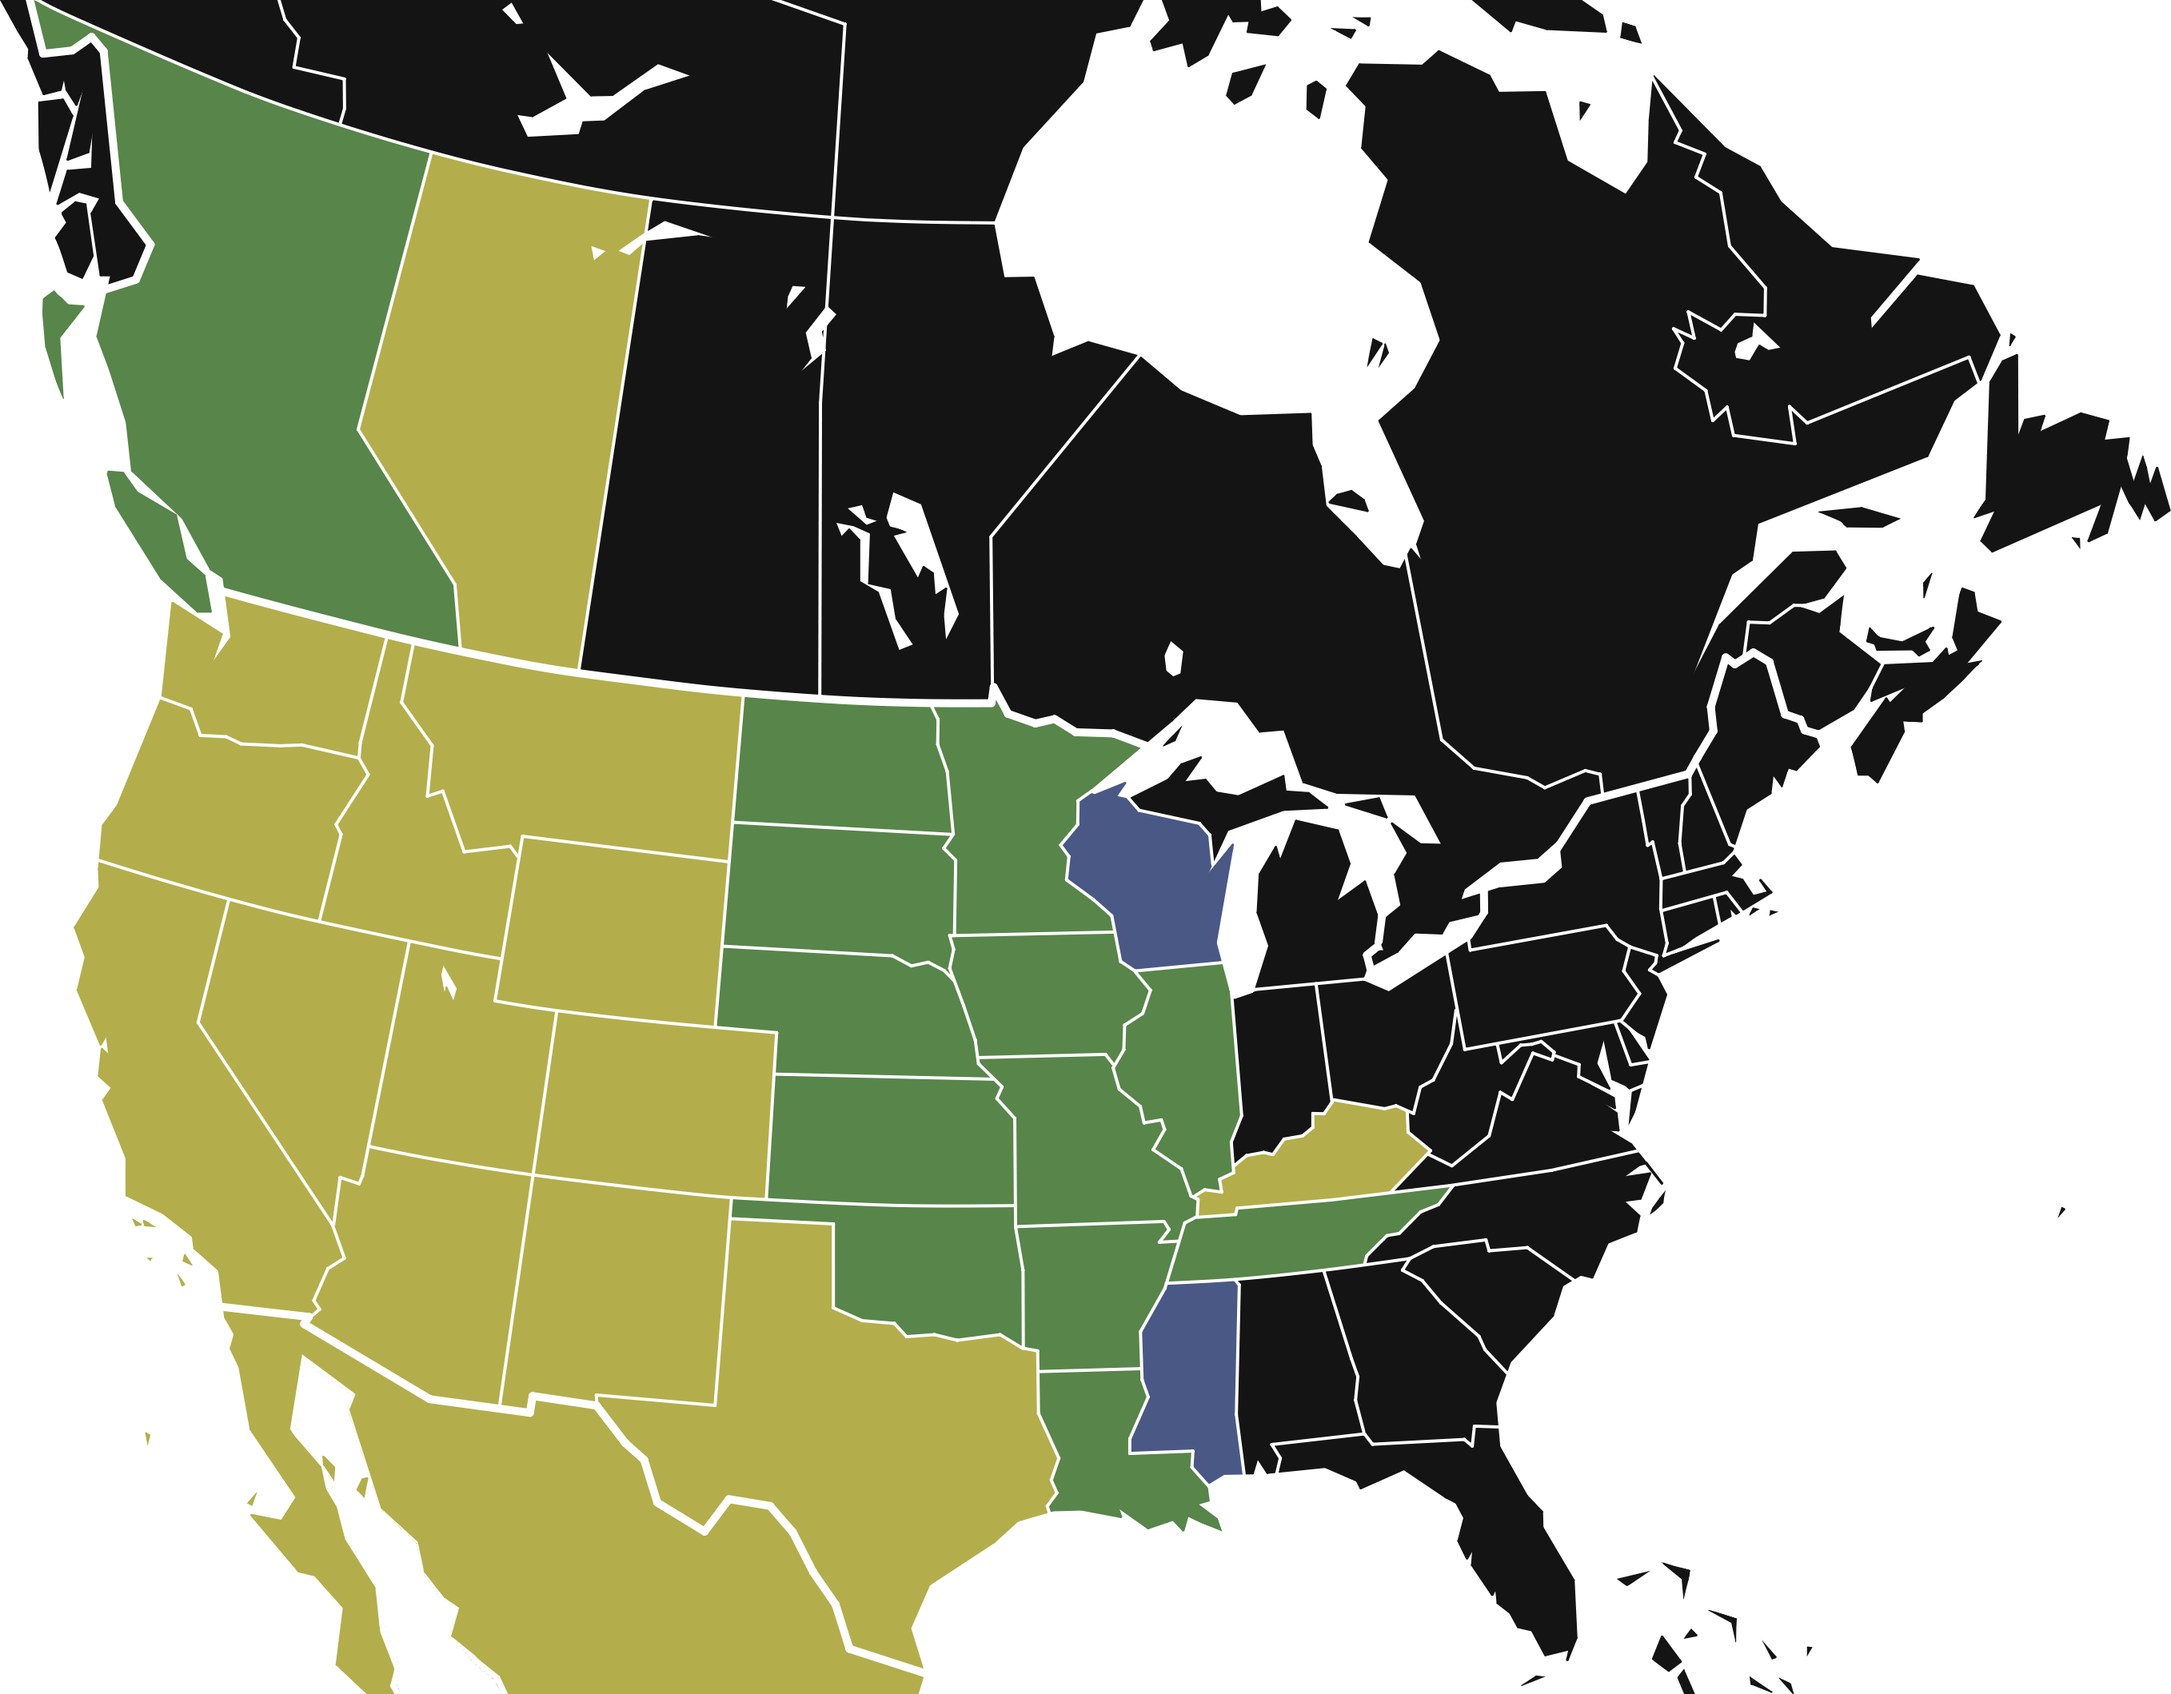
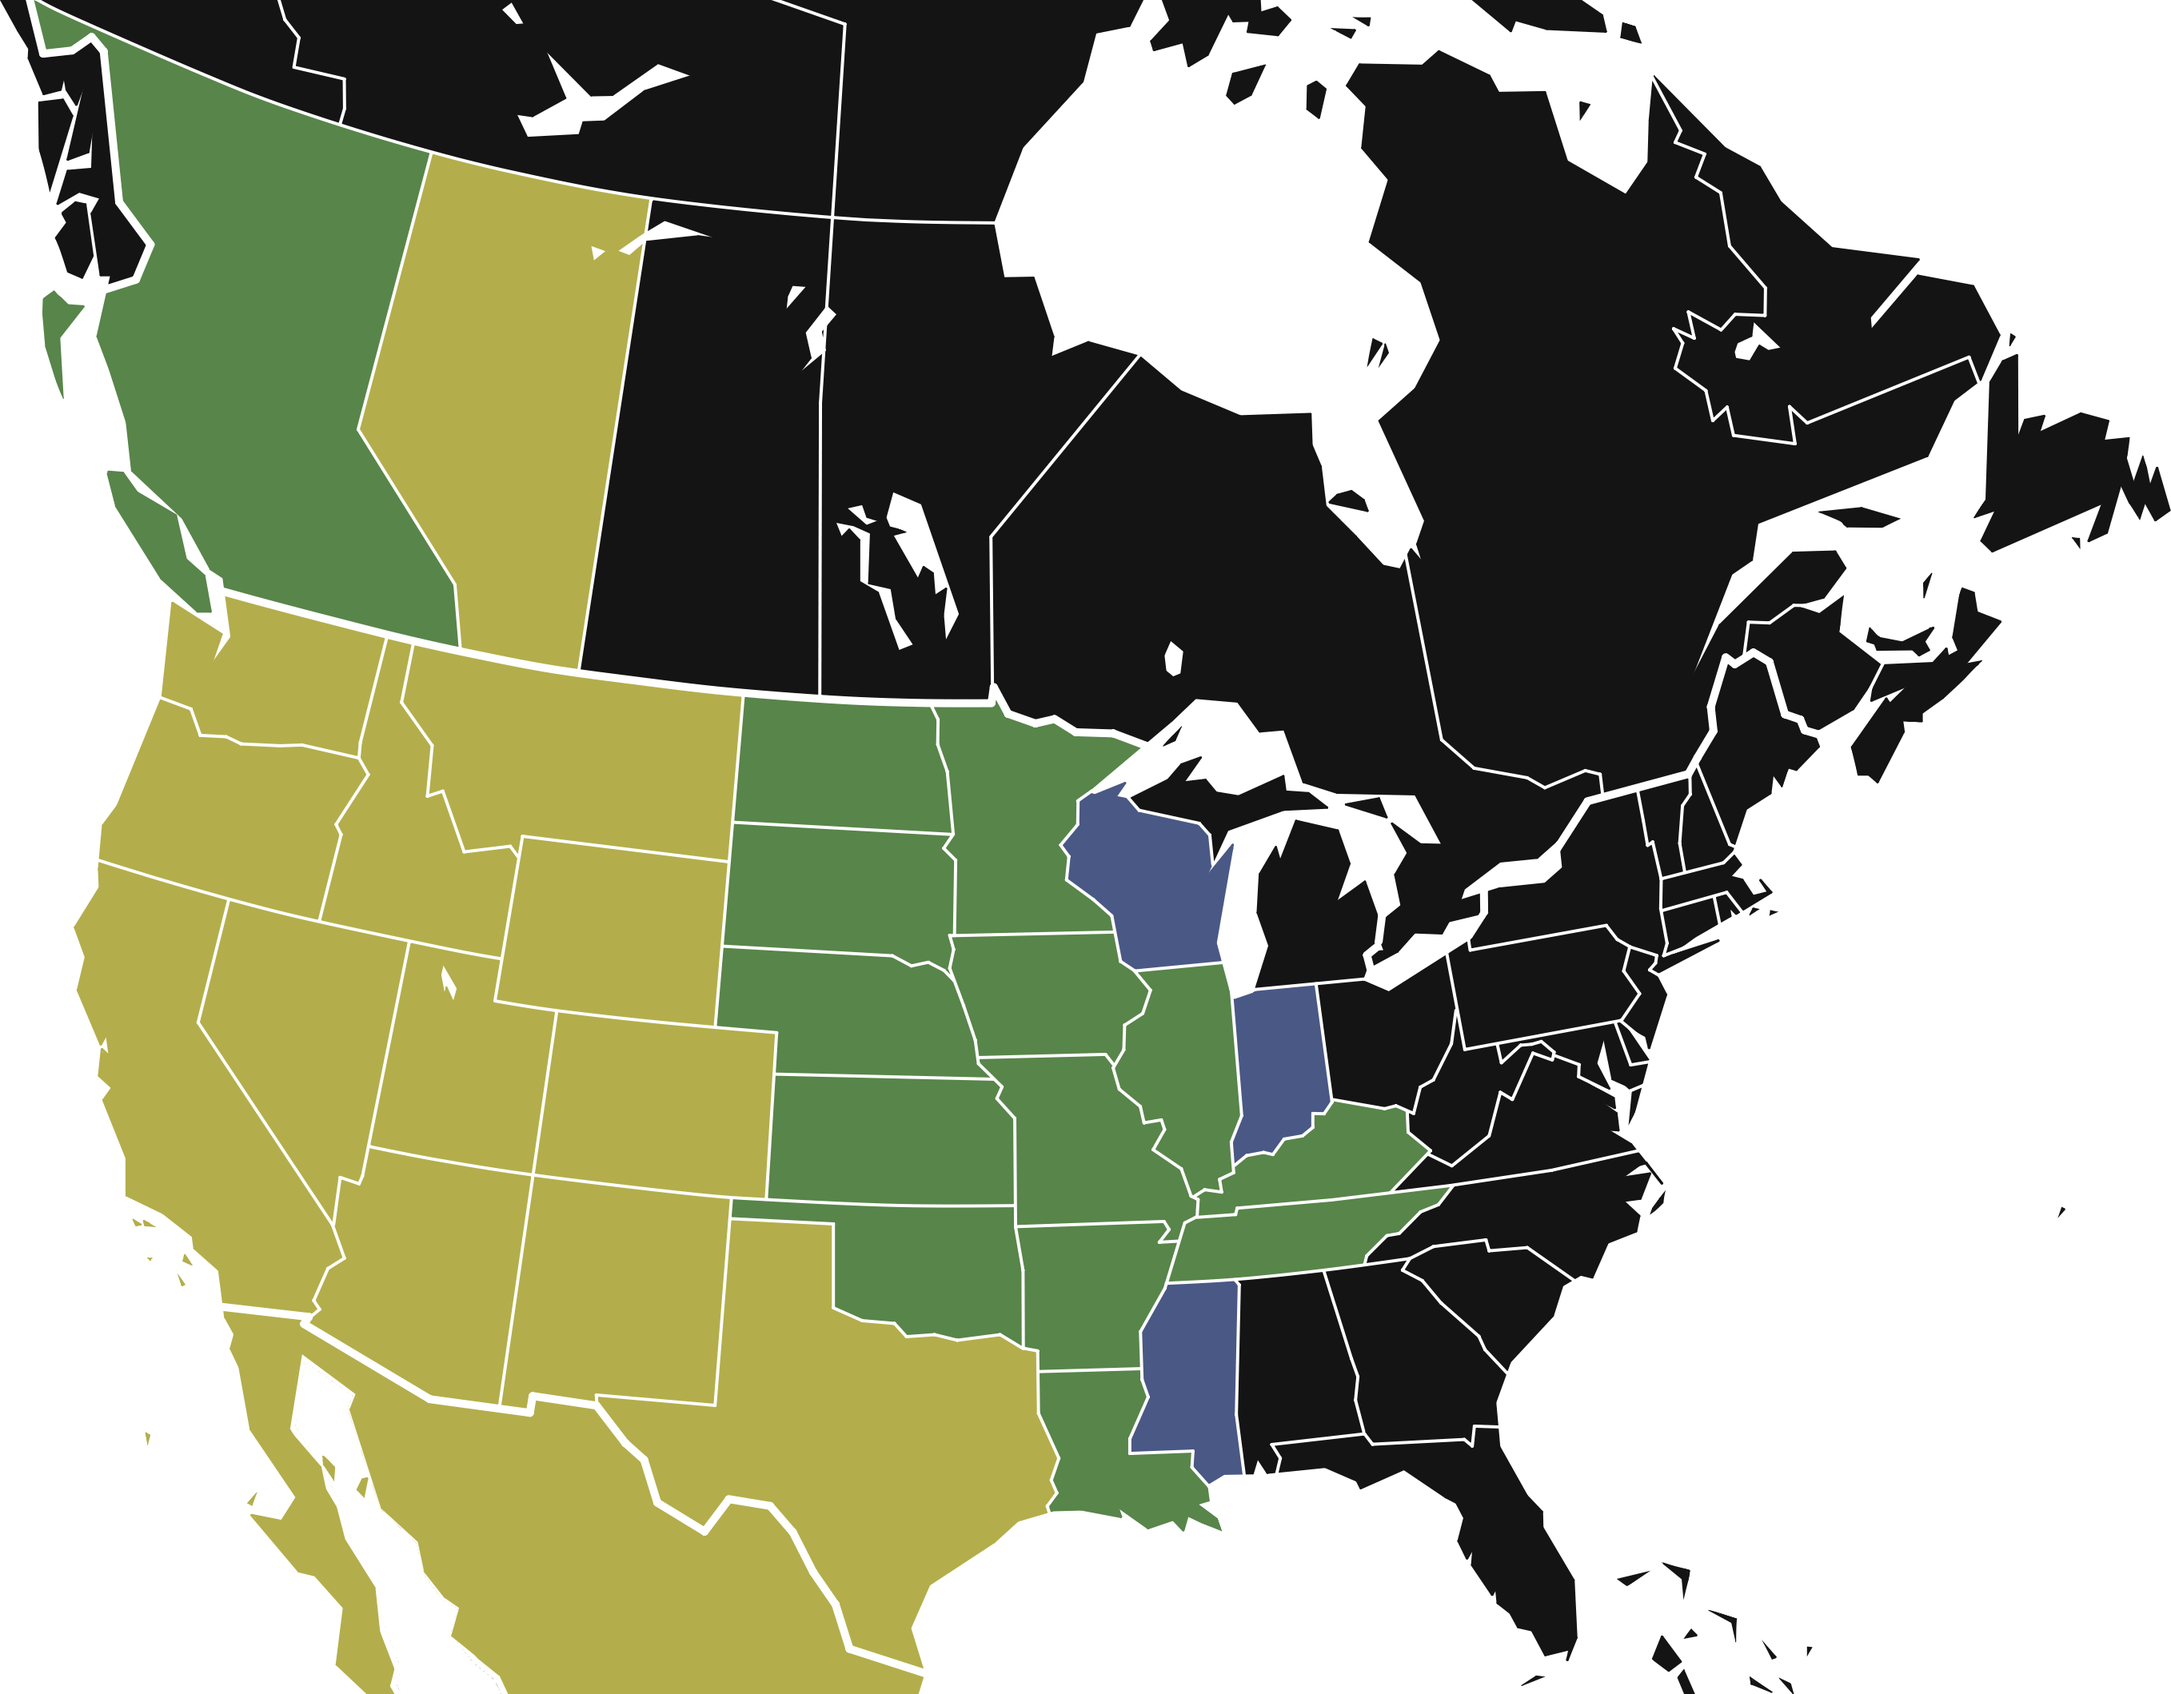
v59.7: Illinois Released

Changed region(s): [[0.5569, 0.5606, 0.6497, 0.7164]]

diff --git a/index.html b/index.html
@@ -68,10 +68,14 @@
   <span><strong>ATS v1.59 Updates:</strong></span>
   <a href="#/ats/britishcolumbia">British Columbia</a>
   <a href="#/ats/illinois">Illinois</a>
+  <a href="#/ats/indiana">Indiana</a>
+  <a href="#/ats/kentucky">Kentucky</a>
+  <a href="#/ats/minnesota">Minnesota</a>
   <a href="#/ats/montana">Montana</a>
   <a href="#/ats/nevada">Nevada</a>
   <a href="#/ats/northdakota">North Dakota</a>
   <a href="#/ats/southdakota">South Dakota</a>
+  <a href="#/ats/wisconsin">Wisconsin</a>
   <a href="#/ats/wyoming">Wyoming</a>
 </div>
 

diff --git a/assets/js/state-nav-data.js b/assets/js/state-nav-data.js
@@ -8,6 +8,7 @@ window.STATE_NAV = {
     { slug: "colorado",  name: "Colorado" },
     { slug: "idaho",  name: "Idaho" },
     { slug: "illinois",  name: "Illinois" },
+    { slug: "indiana",  name: "Indiana" },
     { slug: "iowa",  name: "Iowa" },
     { slug: "kansas",  name: "Kansas" },
     { slug: "kentucky",  name: "Kentucky" },

diff --git a/README.md b/README.md
@@ -1,5 +1,7 @@
 # Spooks' TruckSim Repository
 
+**<mark>Illinois</mark>** has released!
+
 - Hello! This website is provided to better streamline and organize all of the maps I've made over the years in one place! Given more and more projects are running simultaneously, I wouldn't be able to keep up linking map after map on the SCS forum for long before running out of available links. This also gives me a place to localize a bunch of other information I like to look at including the mileage targets.
 
 - The website is laid out to where you click below on a state/country equivalent and within contains any maps I've made through the course of its development. Mileage targets for that state are also included. Where a bundled map expansion exists, all associated states/regions of states will be bundled together (currently only valid for ETS2 expansions). Thanks for visiting! I hope the information you find here can be helpful for any and all discussions.
@@ -14,9 +16,8 @@
 
 ## ATS Interactive Map
 <!-- ATS Interactive Map -->
-<!-- indiana points 1540,1251,1569,1237,1643,1232,1669,1376,1655,1390,1641,1390,1641,1407,1631,1419,1609,1424,1588,1443,1571,1441,1564,1445,1542,1455,1540,1433,1554,1395 -->
 - Use the interactive map below to select a state or province. 
-- The officially announced maps are [British Columbia](ats/britishcolumbia.md), [Illinois](ats/illinois.md), and [South Dakota](ats/southdakota.md). 
+- The officially announced maps are [British Columbia](ats/britishcolumbia.md) and [South Dakota](ats/southdakota.md). 
 
 <div class="map-label">
   <div class="map-label-name">-----</div>
@@ -67,6 +68,11 @@ viewBox="0 0 2715 2119"
      <a href="#/ats/illinois">
           <polygon class="state" data-name="Illinois" data-type="both"
                points="1489,1496,1475,1462,1441,1436,1456,1414,1453,1402,1432,1402,1425,1383,1401,1366,1389,1338,1408,1316,1408,1280,1429,1268,1441,1237,1420,1213,1528,1203,1540,1246,1552,1395,1542,1424,1545,1469,1523,1474,1525,1489,1509,1486">
+          </polygon>
+     </a>
+     <a href="#/ats/indiana">
+          <polygon class="state" data-name="Indiana" data-type="both"
+               points="1540,1251,1569,1237,1643,1232,1669,1376,1655,1390,1641,1390,1641,1407,1631,1419,1609,1424,1588,1443,1571,1441,1564,1445,1542,1455,1540,1433,1554,1395">
           </polygon>
      </a>
      <a href="#/ats/iowa">

diff --git a/changelog.md b/changelog.md
@@ -1,6 +1,14 @@
 # Changelog
 <!-- https://tableconvert.com/excel-to-markdown -->
-<!--Mileage Markers ATS-59: BC,IL,MT,NV,ND,SD,WY //// ETS2-59: -->
+<!-- ATS-59: BC, IL, IN, KY, MN, MT, NV, ND, SD, WI, WY //// ETS2-59: -->
+
+## 59.7
+For ATS/ETS2 v<span style="color:orange;"><b>1.59</b></span>: 2026.5.17
+- Updated for the full release of Illinois.
+    - Relevant page updates: [Illinois](ats/illinois.md), [Indiana](ats/indiana.md), [Kentucky](ats/kentucky.md), [Minnesota](ats/minnesota.md), [Wisconsin](ats/wisconsin.md)
+    - Very minor page updates: [Iowa](ats/iowa.md), [Missouri](ats/missouri.md)
+- Created the [Indiana](ats/indiana.md) page now that certain roads leading into it are now accessible.
+- Created a map for [Kentucky](ats/kentucky.md) now that certain roads leading into it are now accessible.
 
 ## 59.6
 For ATS/ETS2 v<span style="color:orange;"><b>1.59</b></span>: 2026.5.6

diff --git a/ats/wisconsin.md b/ats/wisconsin.md
@@ -5,10 +5,10 @@
 ?> **Note,** It is recommended to `Open Image in New Tab` to be able to fully zoom into the maps.
 
 ### Preview
-!> **Note,** The map shown below only shows potential roads in their initial state before the state was announced.
+!> **Note,** The map shown below only shows potential roads in their initial state before before the state was announced.
 
-<img alt="Early WI" 
-     src="https://github.com/user-attachments/assets/7dccdc98-e6e1-4e27-a5c4-116d088a8f0b"
+<img alt="Wisconsin Preview" 
+     src="assets\img\statemaps\preview-WI.png"
      style="max-width: 100%; height: auto; width: auto; display: block;">
 
 ## States and Provinces of American Truck Simulator

diff --git a/ats/indiana.md b/ats/indiana.md
@@ -4,14 +4,12 @@
 ## Maps
 ?> **Note,** It is recommended to `Open Image in New Tab` to be able to fully zoom into the maps.
 
-### 1.59
+### Preview
+!> **Note,** The map shown below only shows potential roads in their initial state before before the state was announced.
 
-<img alt="Early IN" 
-     src=""
+<img alt="Indiana Preview" 
+     src="assets\img\statemaps\preview-IN.png"
      style="max-width: 100%; height: auto; width: auto; display: block;">
-
-## Mileage Targets
-Indiana has 0 mileage targets. The most recent update occurred with version None.
 
 ## States and Provinces of American Truck Simulator
 <!-- state-nav: ats -->

diff --git a/ats/kentucky.md b/ats/kentucky.md
@@ -1,6 +1,13 @@
 # Kentucky
 !> **Note,** Kentucky has not been announced. Information on this page is highly susceptible to changes in the future.
 
+### Preview
+!> **Note,** The map shown below only shows potential roads in their initial state before before the state was announced.
+
+<img alt="Kentucky Preview" 
+     src="assets\img\statemaps\preview-KY.png"
+     style="max-width: 100%; height: auto; width: auto; display: block;">
+
 ## Mileage Targets
 Kentucky has 1 mileage target. The most recent update occurred with version 1.57.
 

diff --git a/ats/iowa.md b/ats/iowa.md
@@ -1,5 +1,5 @@
 # Iowa
-?> **Note,** Iowa was released with v1.55. No further map updates will occur but mileage targets may be added along with future map expansions (Illinois, Minnesota, South Dakota, Wisconsin).
+?> **Note,** Iowa was released with v1.55. No further map updates will occur but mileage targets may be added along with future map expansions (Minnesota, South Dakota, Wisconsin).
 
 ## Maps
 ?> **Note,** It is recommended to `Open Image in New Tab` to be able to fully zoom into the maps.

diff --git a/ats/missouri.md b/ats/missouri.md
@@ -1,5 +1,5 @@
 # Missouri
-?> **Note,** Missouri was released with v1.54. No further map updates will occur but mileage targets may be added along with future map expansions (Illinois, Tennessee).
+?> **Note,** Missouri was released with v1.54. No further map updates will occur but mileage targets may be added along with future map expansions (Tennessee).
 
 ## Maps
 ?> **Note,** It is recommended to `Open Image in New Tab` to be able to fully zoom into the maps.

diff --git a/ats/minnesota.md b/ats/minnesota.md
@@ -7,8 +7,8 @@
 ### Preview
 !> **Note,** The map shown below only shows potential roads in their initial state before before the state was announced.
 
-<img alt="Early MN" 
-     src="https://github.com/user-attachments/assets/0be1d0bb-8865-4bbc-ba32-e1c1b57f88e6"
+<img alt="Minnesota Preview" 
+     src="assets\img\statemaps\preview-MN.png"
      style="max-width: 100%; height: auto; width: auto; display: block;">
 
 ## Mileage Targets

diff --git a/ats/illinois.md b/ats/illinois.md
@@ -1,5 +1,5 @@
 # Illinois
-!> **Note,** Illinois is in development. Information on this page is highly susceptible to changes in the future.
+?> **Note,** Illinois was released with v1.59. No further map updates will occur but mileage targets may be added along with future map expansions (Indiana, Kentucky, Wisconsin).
 
 ## Maps
 ?> **Note,** It is recommended to `Open Image in New Tab` to be able to fully zoom into the maps.
